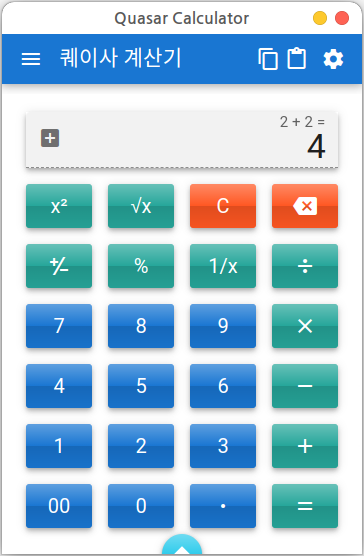
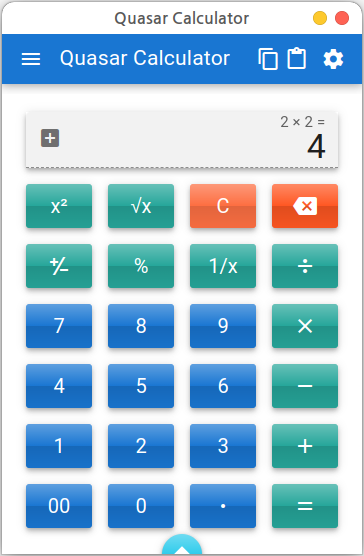
v0.5.3

Changed region(s): [[0.5137, 0.3363, 0.7253, 0.4281], [0.1511, 0.0612, 0.6346, 0.1223], [0.7857, 0.214, 0.8159, 0.2446]]

diff --git a/src/components/SettingPanel.vue b/src/components/SettingPanel.vue
@@ -88,8 +88,10 @@ onBeforeMount(() => {
 
   setLocale();
 
-  if (store.locale == '') {
+  if (store.locale == '') { // 처음 실행시
     store.locale = navigator.language;
+  }
+  if (store.userLocale == '') { // 처음 실행시
     store.userLocale = navigator.language;
   }
 });

diff --git a/CHANGELOG.md b/CHANGELOG.md
@@ -4,6 +4,10 @@
 
 형식은 [Keep a Changelog (korean)]를 기반으로 하며 이 프로젝트는 [Semantic Versioning (korean)]을 따릅니다.
 
+## [0.5.3] - 2022-09-13
+
+- 사용 언어를 영어, 한국어로 선택 가능
+
 ## [0.5.2] - 2022-08-20
 
 - 계산 결과 상단 표시 버그 수정 및 기능 보강
